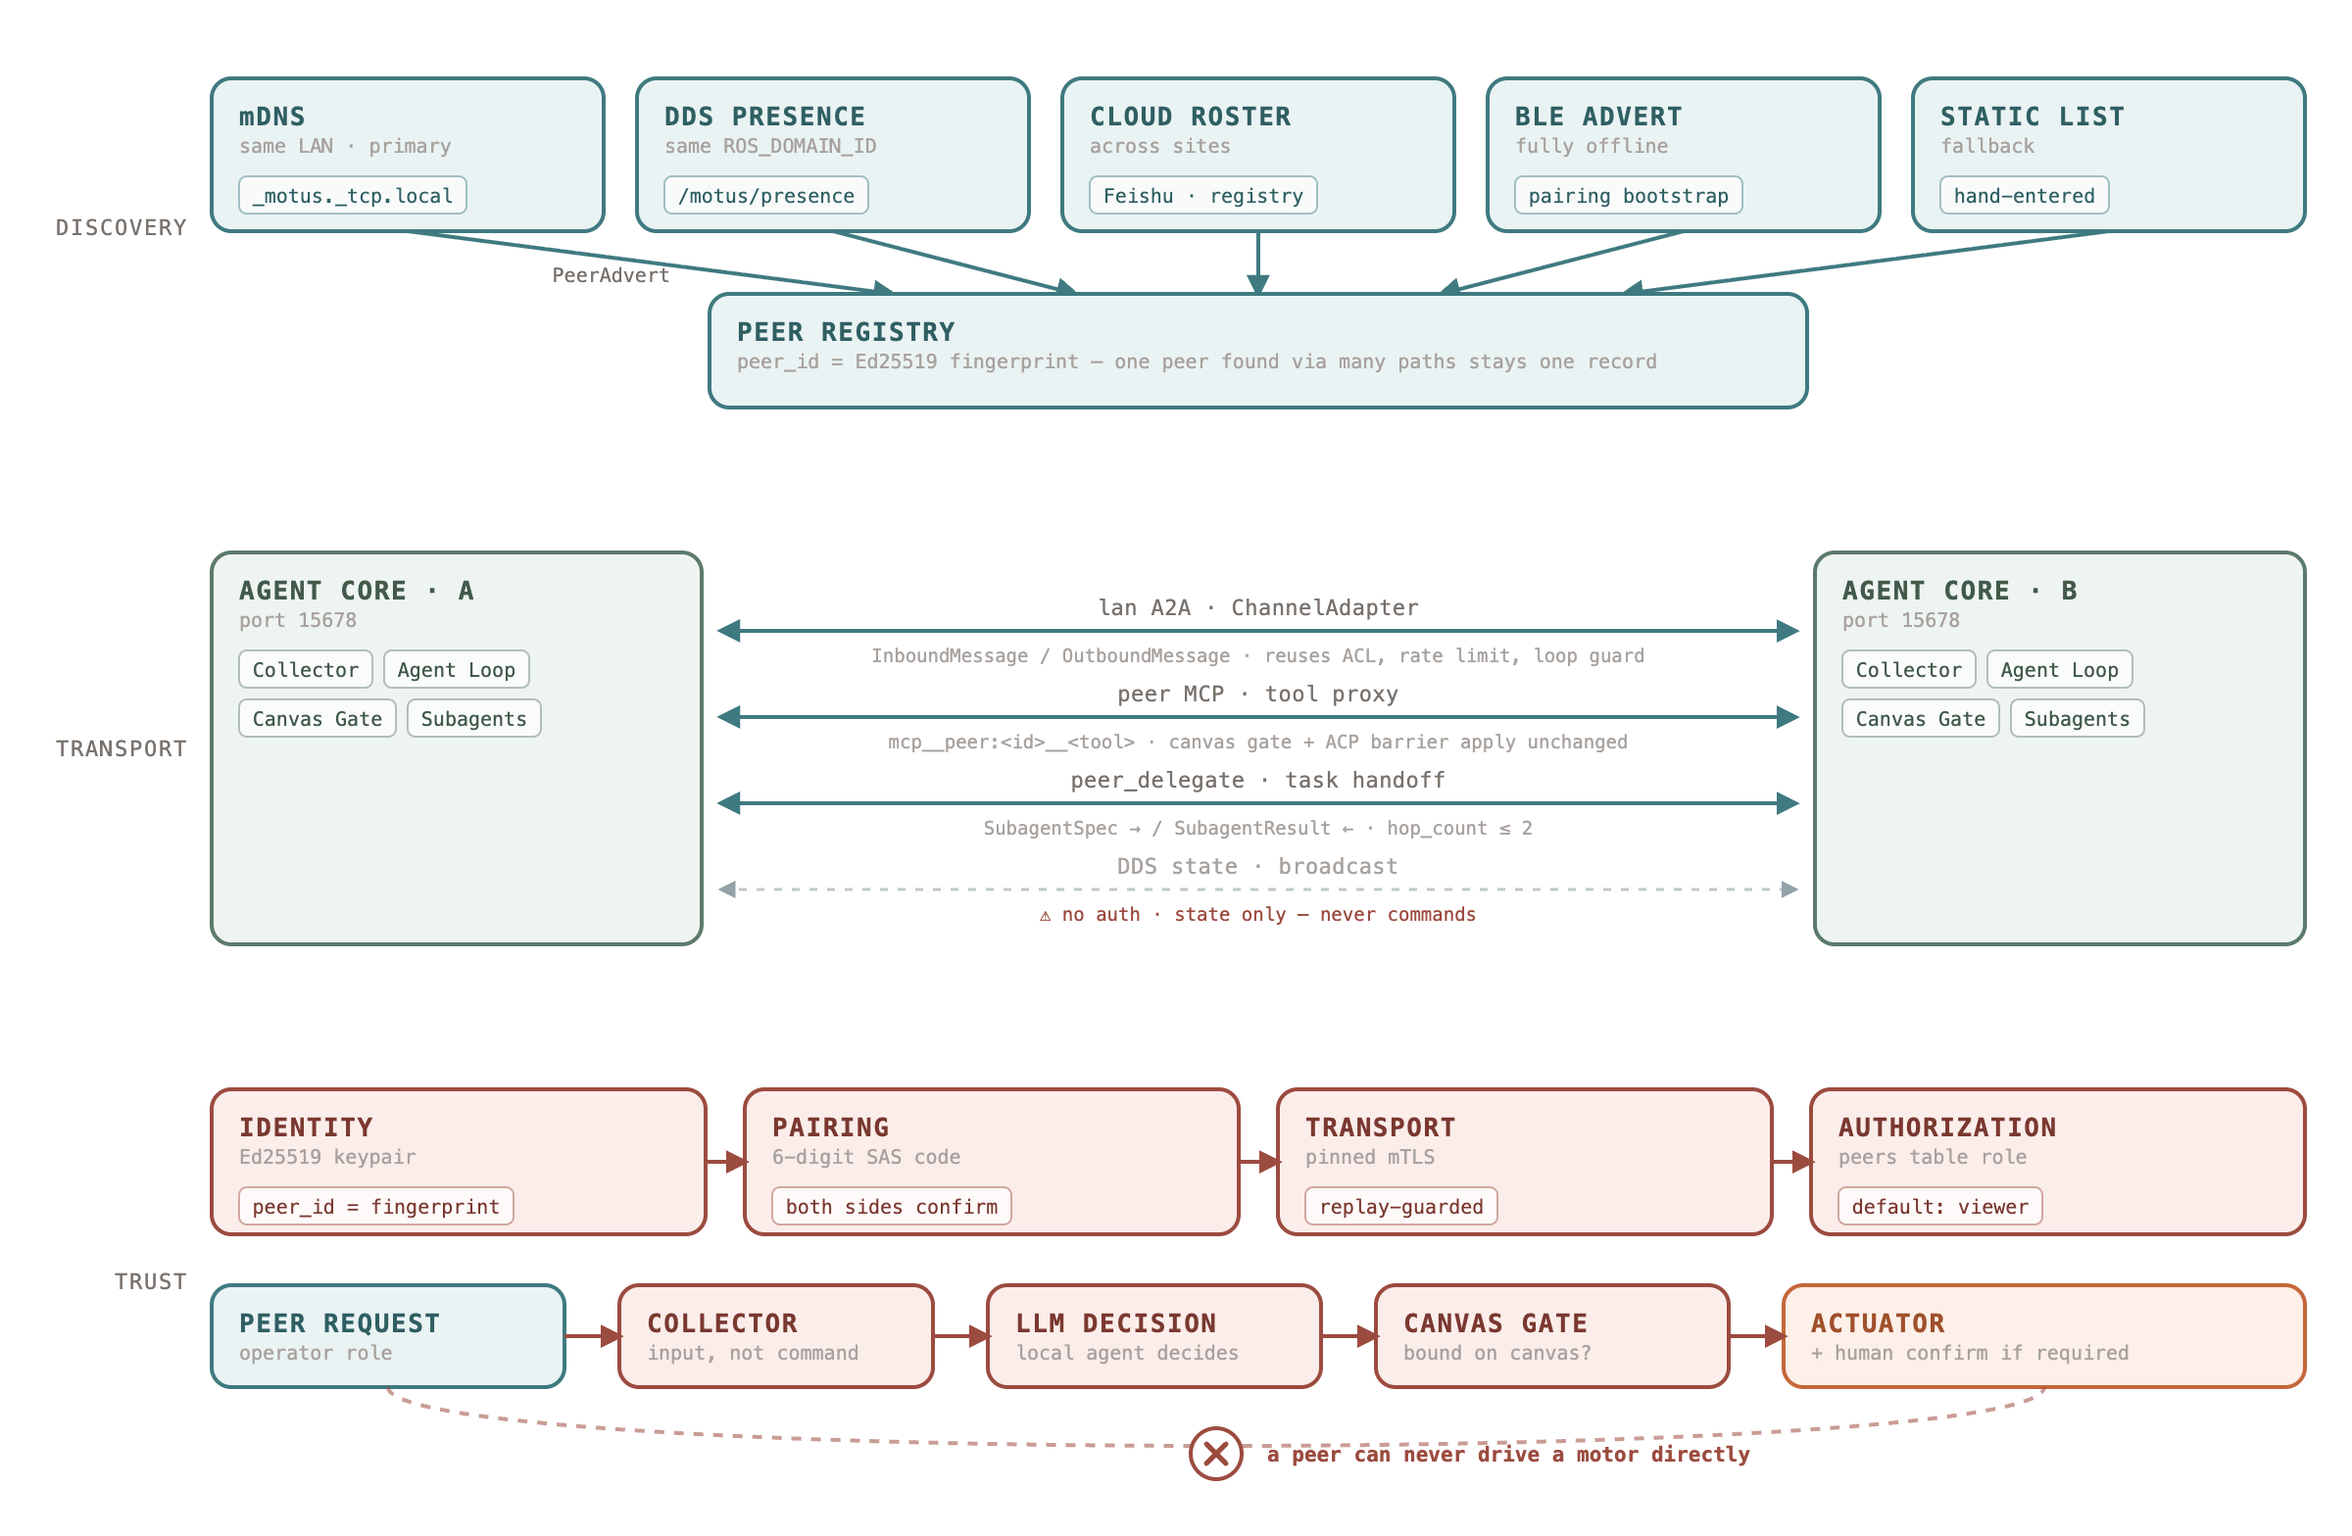
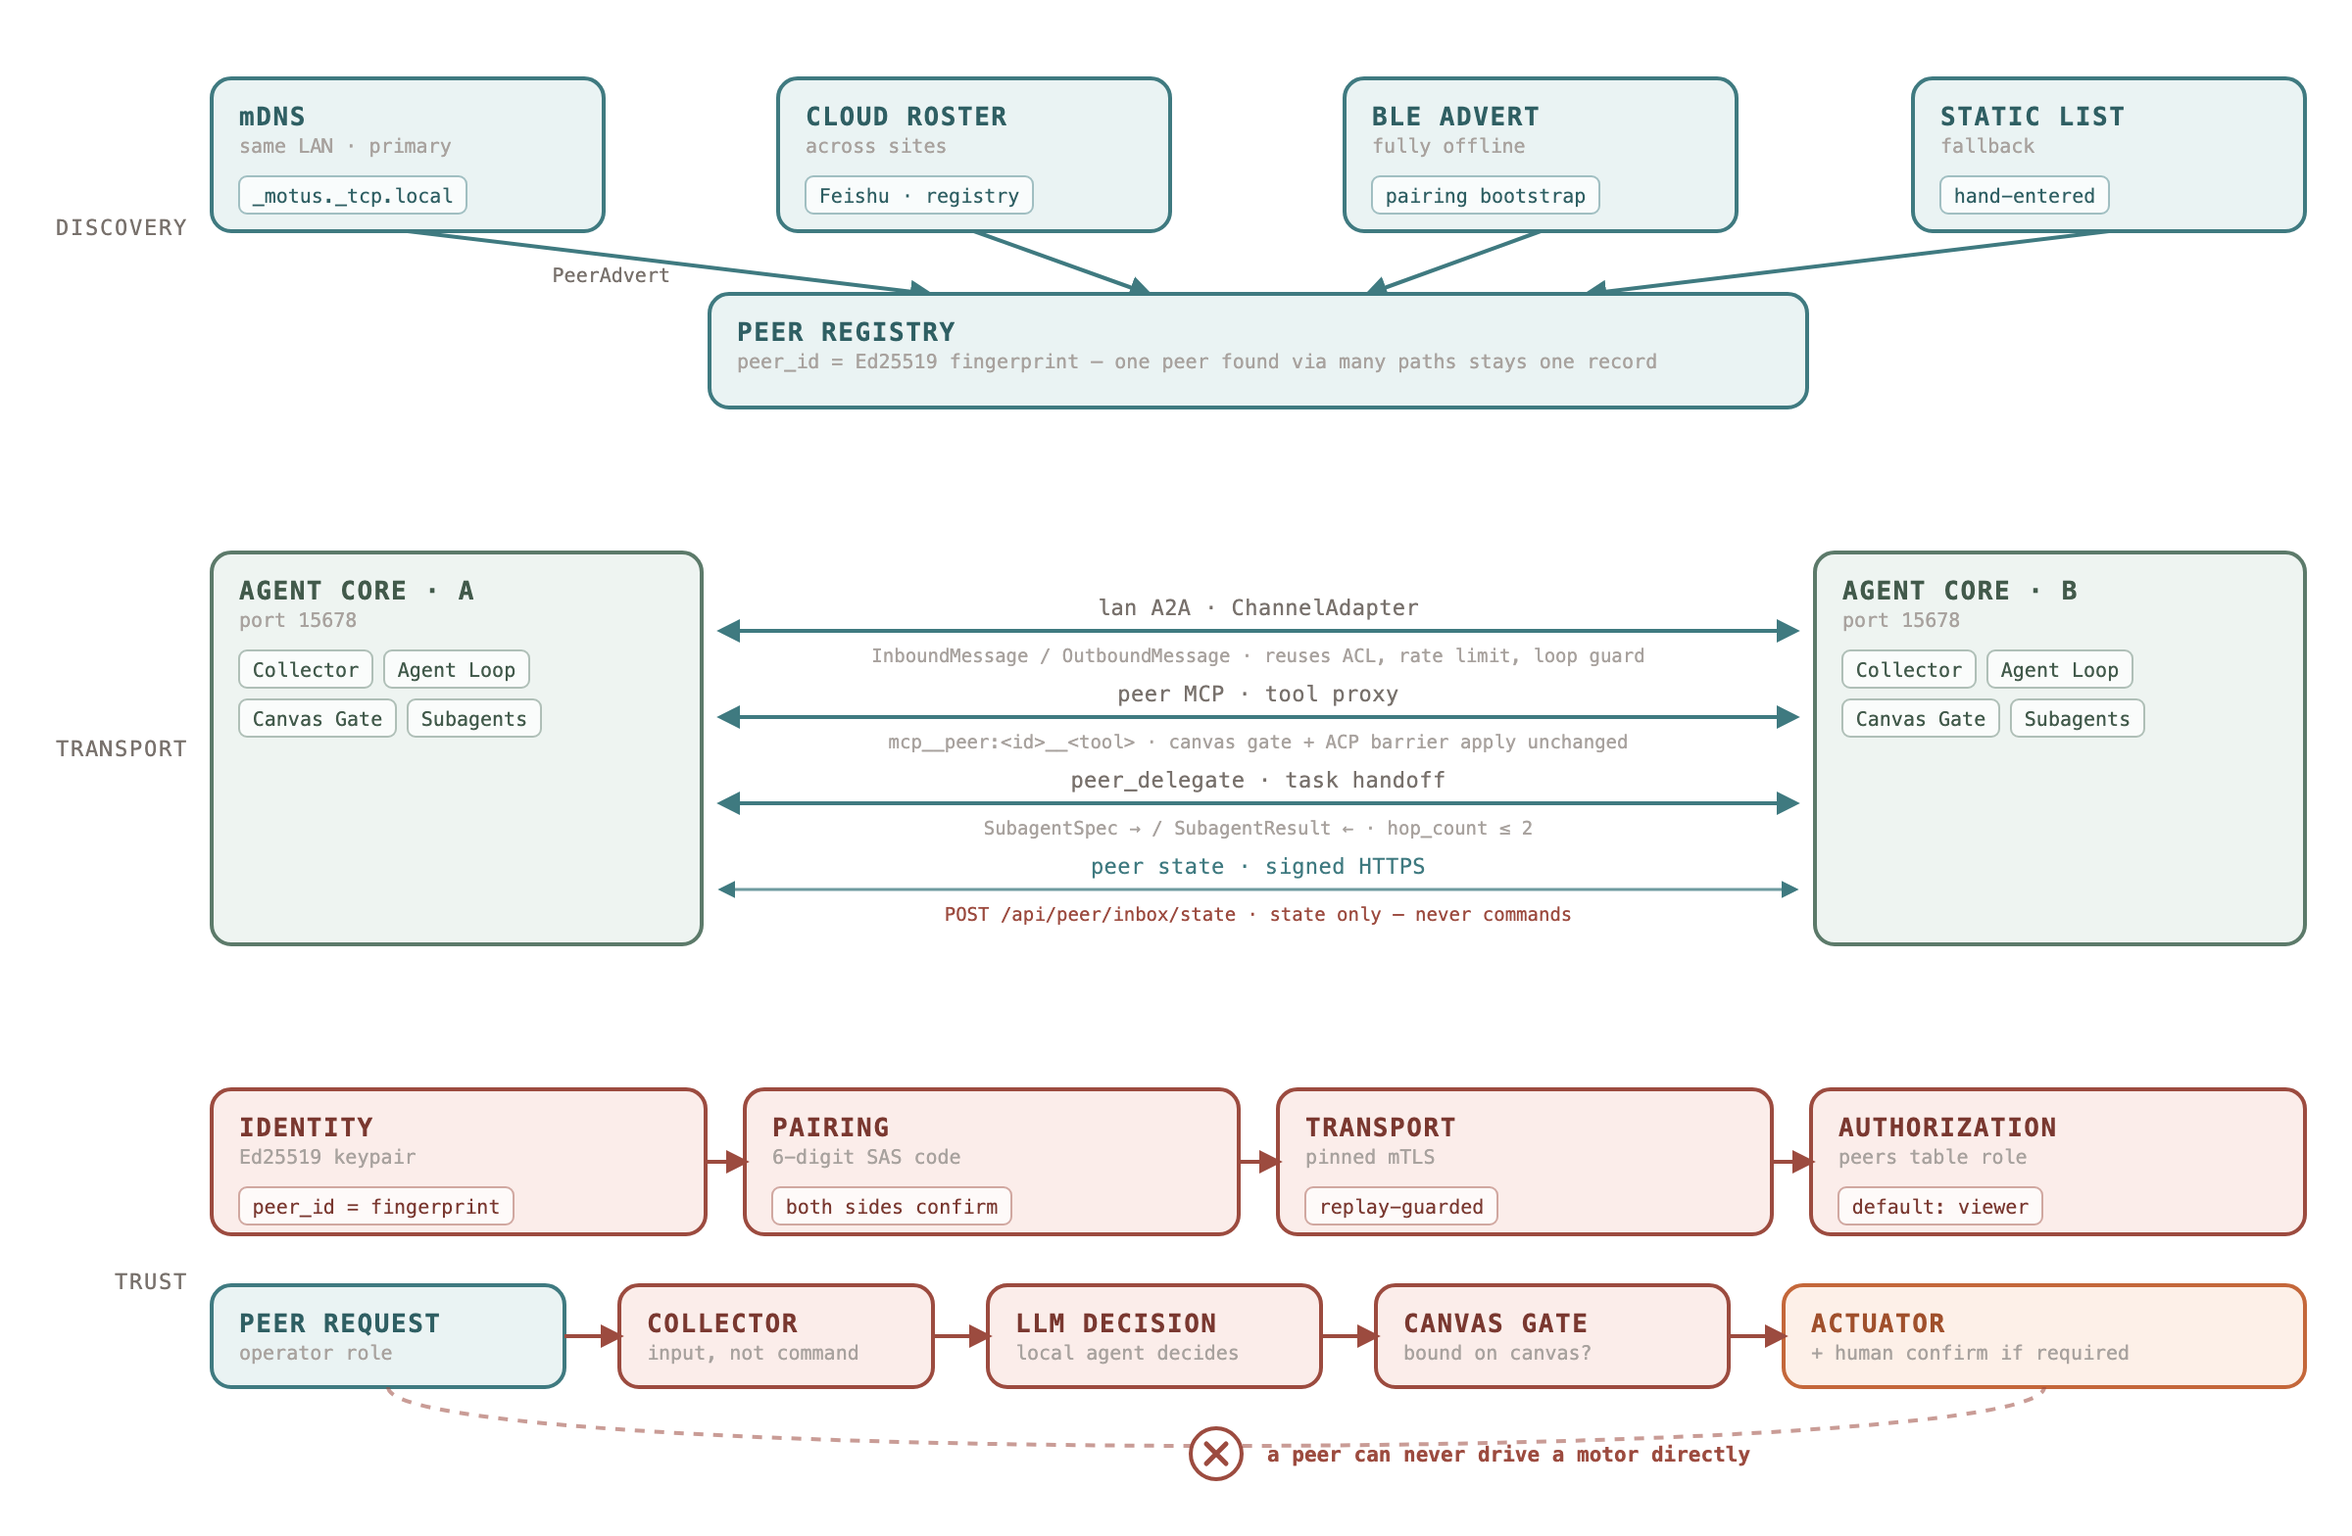
docs: peer mesh 文档与架构图跟上 DDS 隔离后的实际设计
三处原来的说法现在都不成立了：

1. **状态：设计已定尚未实现** —— 已经实现并在两台 Orin 之间验证过。改成写清
   验证到哪一步（没跑过两台以上，云端名册仍是桩），而不是笼统说"已实现"。
2. **DDS presence 发现 provider** —— DDS 锁本机之后它跨不了机，从表里和图上都去掉。
   provider 从 5 个变 4 个，图里那一行重排；间距原来硬编码 17 只在正好 5 张卡时铺满
   CONTENT，现在按数量推导。
3. **状态级走 DDS topic** —— 改走签名 HTTPS。图上那条通道原来画成虚线弱箭头 + ⚠
   "no auth"，现在和其它链路一样是签名链路，实线常规箭头；"绝不承载指令"仍保留警示色，
   因为那是规则不是说明文字。aria-label 也跟着改 —— 它是读屏用户唯一的描述，原文明确
   写着"unauthenticated DDS broadcast lane"。

新增一节讲隔离模型本身：为什么必须这么做（一条指令话题当时正到达局域网上每一台
机器人，Orin5 敲的指令 Orin6 也执行了，两边时间戳一致）、所有容器必须加载同一份
profile（漏掉的那个会把自己隔开）、以及缺文件时 bind mount 造目录导致静默回退。

PNG 用 Chrome headless 按原规格重新导出（2x、白底、1200x784）。

Changed region(s): [[0.25, 0.0625, 0.8125, 0.1875], [0.4062, 0.5625, 0.6562, 0.625]]

diff --git a/README_zh.md b/README_zh.md
@@ -62,9 +62,10 @@ curl -fsSL https://motus.phanthy.com/install.sh | sudo bash -s <tag>
 
 ### 多机协同（Multi-Agent Peers）
 
-> **状态：设计已定，尚未实现。** 本节先把架构写下来，好让后续代码落在正确的形状上。目前真正可用的跨机协作
-> 只有飞书 bot 互通（`bot_to_bot_enabled` + `trusted_bots`，见[飞书渠道配置](docs/feishu-channel-setup.md)），
-> 且强依赖公网。
+> **状态：已实现，在两台 Orin 测试机之间验证通过，尚未在多机队列上跑过。** 发现、配对、消息、工具代理、
+> 任务委派、状态共享都已运行。**没有**验证过的是超过两台 peer 的情形，以及跨地点（云端名册 provider 目前
+> 是桩）。飞书 bot 互通（`bot_to_bot_enabled` + `trusted_bots`，见[飞书渠道配置](docs/feishu-channel-setup.md)）
+> 仍然作为依赖公网的那条路径存在。
 
 ![多机协同与安全](docs/images/peer-mesh.png)
 
@@ -79,7 +80,7 @@ curl -fsSL https://motus.phanthy.com/install.sh | sudo bash -s <tag>
 | Provider | 依赖 | 用途 |
 |---|---|---|
 | mDNS / DNS-SD（`_motus._tcp.local`） | 同局域网 | 同场地，主力路径 |
-| DDS presence（`/motus/presence`） | 同 `ROS_DOMAIN_ID` | 同场地，零新依赖（DDS 多播本来就在跑） |
+| ~~DDS presence（`/motus/presence`）~~ | —— | **不可用。** DDS 现已锁在本机（见下），任何基于 DDS 的东西都不跨机 |
 | 云端名册 | 公网 | 跨地点、跨网段 |
 | BLE 广播 | 无 | 仅用于完全离网时的**配对引导**，不承载数据面 |
 | 静态清单 | 无 | 兜底，永远保留 |
@@ -91,8 +92,11 @@ curl -fsSL https://motus.phanthy.com/install.sh | sudo bash -s <tag>
    语义完全相同的两条链路，天然得到「有网走公网、断网走局域网」。
 2. **能力级** —— peer 注册为合成 MCP 条目（`transport: 'peer'`），其工具以 `mcp__peer:<id>__<tool>` 出现，
    直接继承画布绑定闸门、ACP barrier（跨机异步等待原样可用）、hooks 与 per-tool 配置。
-3. **状态级** —— 位姿、电量、任务状态等高频数据走 DDS topic。**DDS 没有鉴权**：同一个 `ROS_DOMAIN_ID` 下
-   任何人都能读写，所以这条链路只承载状态，绝不承载指令。
+3. **状态级** —— 话题清单（以及后续的位姿、电量、任务状态）通过同一条签名 HTTPS 链路推送
+   （`POST /api/peer/inbox/state`）。这里原本走 DDS topic；DDS 现已限制在本机，而 FastDDS 的传输隔离是
+   **进程级**的，没法为 peer 流量单独开一个参与者的例外。改动顺带补上了一个真实缺陷：原来的 peer DDS 总线
+   **没有任何鉴权**，同一个 `ROS_DOMAIN_ID` 上任何进程都能伪造另一台机器人的状态。现在仍然只承载状态，
+   绝不承载指令。
 4. **任务级** —— `peer_delegate` 把 `SubagentSpec` 发给 peer，由对方在本地 spawn 一个 subagent 并回传
    `SubagentResult`。接收方会按 peer 自身角色对 `tool_filter` 二次裁剪 —— 发起方给的是请求上限，不是授权 ——
    且 `hop_count > 2` 直接拒绝，避免委派链形成风暴。
@@ -101,6 +105,26 @@ curl -fsSL https://motus.phanthy.com/install.sh | sudo bash -s <tag>
 dashboard」，不再是跨机凭据。配对沿用蓝牙的做法：双方 dashboard 显示同一个 6 位短码（由双方公钥与 nonce
 派生），两边都由人确认。这样既能抗中间人、又不需要 CA，也是唯一在纯 BLE、完全无网时仍然成立的方案。链路
 随后跑在 pinned mTLS 上。peer 复用 `channel/acl.py` 的角色分级，默认 `viewer`（只读传感器）。
+
+**内部总线只留在本机。** 所有机器人一律 `ROS_DOMAIN_ID=42`，并加载同一份 loopback-only 的 FastDDS
+profile（`agent-core/deploy/dds-local.xml`，挂到 `/opt/phanthy-motus/dds-local.xml`），白名单只有
+`127.0.0.1`。在 `network_mode: host` 下同一台机器上所有容器共享同一个 loopback，因此本机总线照常工作、
+数据出不了这台机器。各机器人配置**完全相同** —— 没有需要人去分配的 domain 编号，这正是重点：
+`ROS_DOMAIN_ID` 可用范围很窄，而克隆出来的镜像之间根本无法协调。
+
+为什么这不是可选项：`/remote_control/message` —— 一条**指令** —— 当时正在到达办公网上的每一台机器人。
+在 Orin5 上敲的一条指令被 Orin6 一起执行了，两边日志里的时间戳完全一致。DDS 没有寻址、没有鉴权，同一个
+domain 上每个订阅者都会收到一切。
+
+两条运维后果：
+
+- **所有 DDS 容器都必须加载这份 profile。** 漏掉的那个容器会把**自己**和本机其余部分隔开，症状是
+  「机器人突然什么都听不见」。Agent Core 启动时会自检，并暴露 `GET /api/peer/dds_isolation`；判据是进程的
+  UDP socket 是否绑在 `127.0.0.1`，而不是文件在不在。
+- **文件缺失是静默失败。** 宿主机上没有 `/opt/phanthy-motus/dds-local.xml` 时，Docker 的 bind mount 会
+  自动建一个同名**目录**，FastDDS 读不到有效 profile 就回退到所有网卡 —— 隔离失效，日志里什么都没有。
+  Agent Core 会在文件缺失时从镜像里补齐；但已经把那个幽灵目录挂进去的容器必须**重建**而不是重启，
+  因为挂载类型在创建时就固化了。
 
 **执行器双闸门 —— 不可协商。** 即使 peer 是 `operator`，它也只能「请求」。跨 agent 的执行器调用必须**同时**满足：
 

diff --git a/README.md b/README.md
@@ -63,10 +63,11 @@ Hardware drivers are maintained in a separate repository: **[phanthymotus-driver
 
 ### Multi-Agent Peers
 
-> **Status: designed, not yet implemented.** This section describes the agreed architecture so the
-> pieces land in the right shape. The only cross-machine collaboration that works today is Feishu
-> bot-to-bot (`bot_to_bot_enabled` + `trusted_bots`, see [Feishu channel setup](docs/feishu-channel-setup.md)),
-> which requires the public internet.
+> **Status: implemented; verified between two Orin test rigs, not yet on a fleet.** Discovery,
+> pairing, messaging, tool proxying, delegation and state sharing all run. What has *not* been
+> exercised is more than two peers, and anything across sites (the cloud roster provider is a
+> stub). Feishu bot-to-bot (`bot_to_bot_enabled` + `trusted_bots`, see
+> [Feishu channel setup](docs/feishu-channel-setup.md)) still exists as the internet-dependent path.
 
 ![Peer mesh & security](docs/images/peer-mesh.png)
 
@@ -83,7 +84,7 @@ stays one record with several links, which is what makes fallback possible.
 | Provider | Needs | Used for |
 |---|---|---|
 | mDNS / DNS-SD (`_motus._tcp.local`) | Same LAN | Same site — the primary path |
-| DDS presence (`/motus/presence`) | Same `ROS_DOMAIN_ID` | Same site, no new dependency (DDS multicast is already running) |
+| ~~DDS presence (`/motus/presence`)~~ | — | **Not usable.** DDS is now pinned to loopback (see below), so nothing DDS-based crosses machines |
 | Cloud roster | Internet | Across sites and subnets |
 | BLE advert | Nothing | Fully offline **pairing bootstrap** only — not a data plane |
 | Static list | Nothing | Fallback, always kept |
@@ -97,9 +98,12 @@ stays one record with several links, which is what makes fallback possible.
 2. **Tools** — a peer registers as a synthetic MCP entry (`transport: 'peer'`), so its tools appear
    as `mcp__peer:<id>__<tool>` and inherit the canvas binding gate, the ACP barrier (cross-machine
    async waits work as-is), hooks, and per-tool config.
-3. **State** — high-rate pose/battery/task state over DDS topics. **DDS has no authentication**:
-   anything on the same `ROS_DOMAIN_ID` can read and write it, so this link carries state only,
-   never commands.
+3. **State** — topic lists and, later, pose/battery/task state, pushed over the same signed HTTPS
+   link (`POST /api/peer/inbox/state`). This used to be DDS topics; DDS is now confined to the
+   local host, and FastDDS transport isolation is *process-wide*, so a per-participant exemption
+   for peer traffic is not implementable. The move fixed a real hole on the way: the DDS peer bus
+   had **no authentication**, so anything on the same `ROS_DOMAIN_ID` could forge another robot's
+   state. It still carries state only, never commands.
 4. **Tasks** — `peer_delegate` ships a `SubagentSpec` to a peer, which spawns a subagent locally and
    returns a `SubagentResult`. The receiver re-clips `tool_filter` against the peer's own role — the
    sender's list is a request, not a grant — and `hop_count > 2` is refused so delegation chains
@@ -111,6 +115,30 @@ the Bluetooth model: both dashboards show the same 6-digit short code derived fr
 plus nonces, and a human confirms on both sides. That resists a man-in-the-middle without needing a
 CA, and is the only scheme that also works over BLE with no network. Links then run over pinned
 mTLS. Peers reuse the `channel/acl.py` role ladder and default to `viewer` (read-only sensors).
+
+**The internal bus stays on one machine.** Every robot runs `ROS_DOMAIN_ID=42` and the same
+loopback-only FastDDS profile (`agent-core/deploy/dds-local.xml`, mounted at
+`/opt/phanthy-motus/dds-local.xml`), which whitelists `127.0.0.1`. Under `network_mode: host` all
+containers on a machine share one loopback, so the local bus works normally while nothing leaves
+the host. Configuration is identical everywhere — no per-robot domain numbers to hand out, which is
+the point: `ROS_DOMAIN_ID` has a narrow usable range and cloned images cannot coordinate.
+
+Why this is not optional: `/remote_control/message` — a *command* — was reaching every robot on the
+office LAN. One instruction typed on Orin5 was executed by Orin6 as well, with the identical
+timestamp in both logs. DDS has no addressing and no authentication; every subscriber on the domain
+receives everything.
+
+Two operational consequences:
+
+- **Every DDS container must load the profile.** A container that misses it isolates *itself* from
+  the rest of the machine — the symptom is a robot that suddenly hears nothing. Agent Core
+  self-checks at startup and exposes `GET /api/peer/dds_isolation`; the judgement is whether the
+  process's UDP sockets bind `127.0.0.1`, not whether the file exists.
+- **A missing file fails silently.** If the host lacks `/opt/phanthy-motus/dds-local.xml`, Docker's
+  bind mount creates a *directory* with that name, FastDDS ignores it and falls back to every
+  interface — isolation gone, nothing in the log. Agent Core writes the file from its image when it
+  is absent; containers that already mounted the phantom directory must be **recreated**, not
+  restarted, because the mount type is fixed at creation.
 
 **The actuator double gate — non-negotiable.** Even an `operator` peer only ever *requests*. A
 cross-agent actuator call must additionally satisfy all of:
